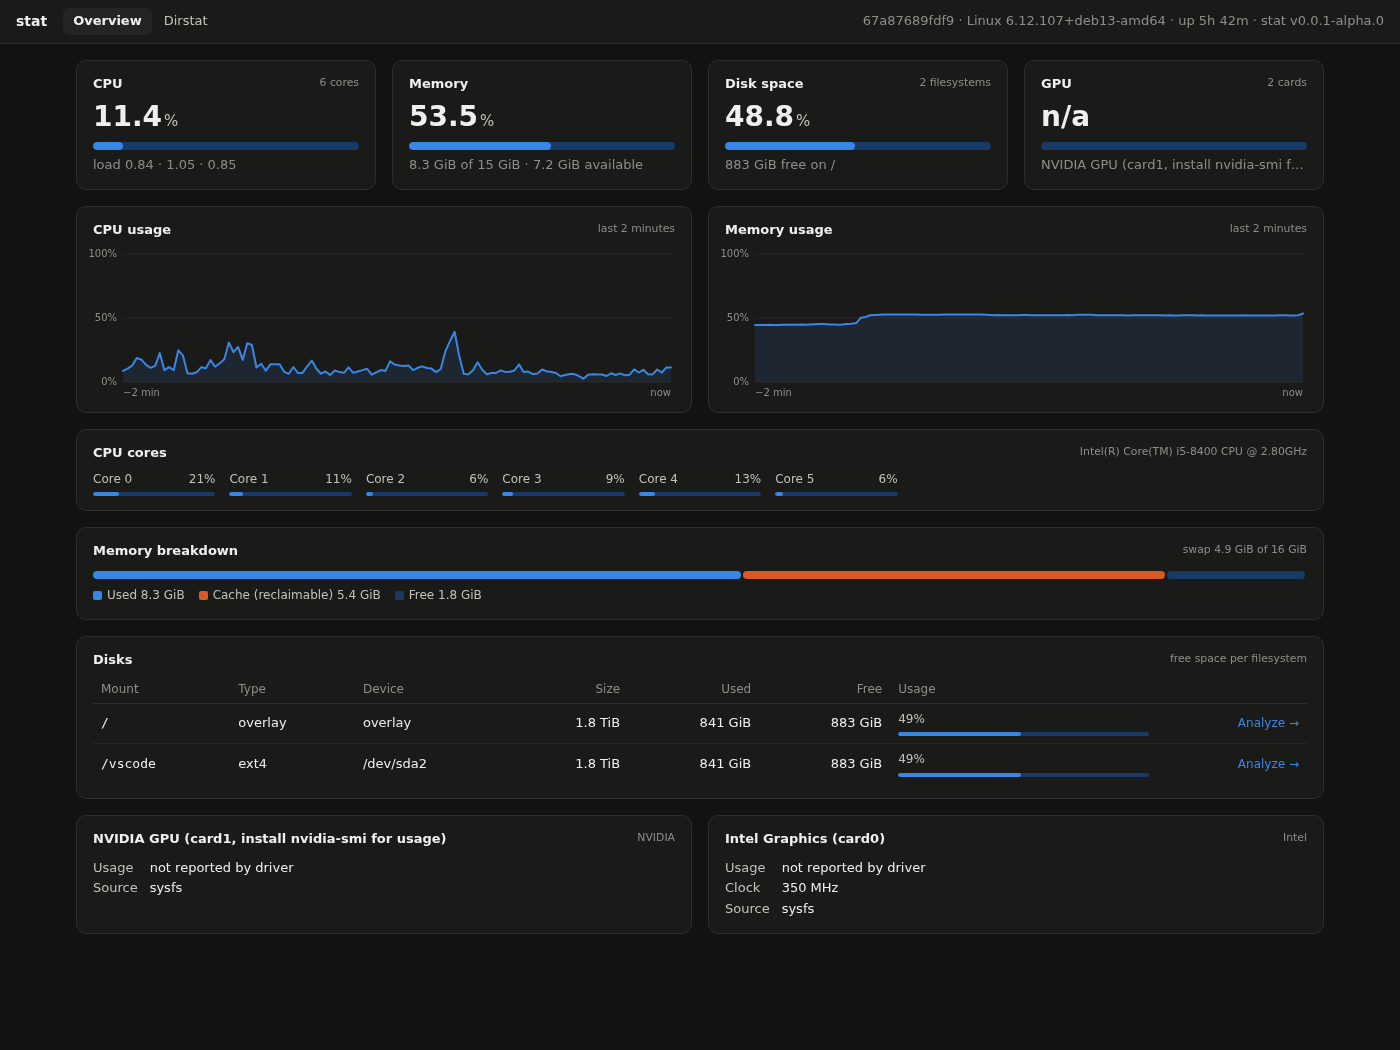
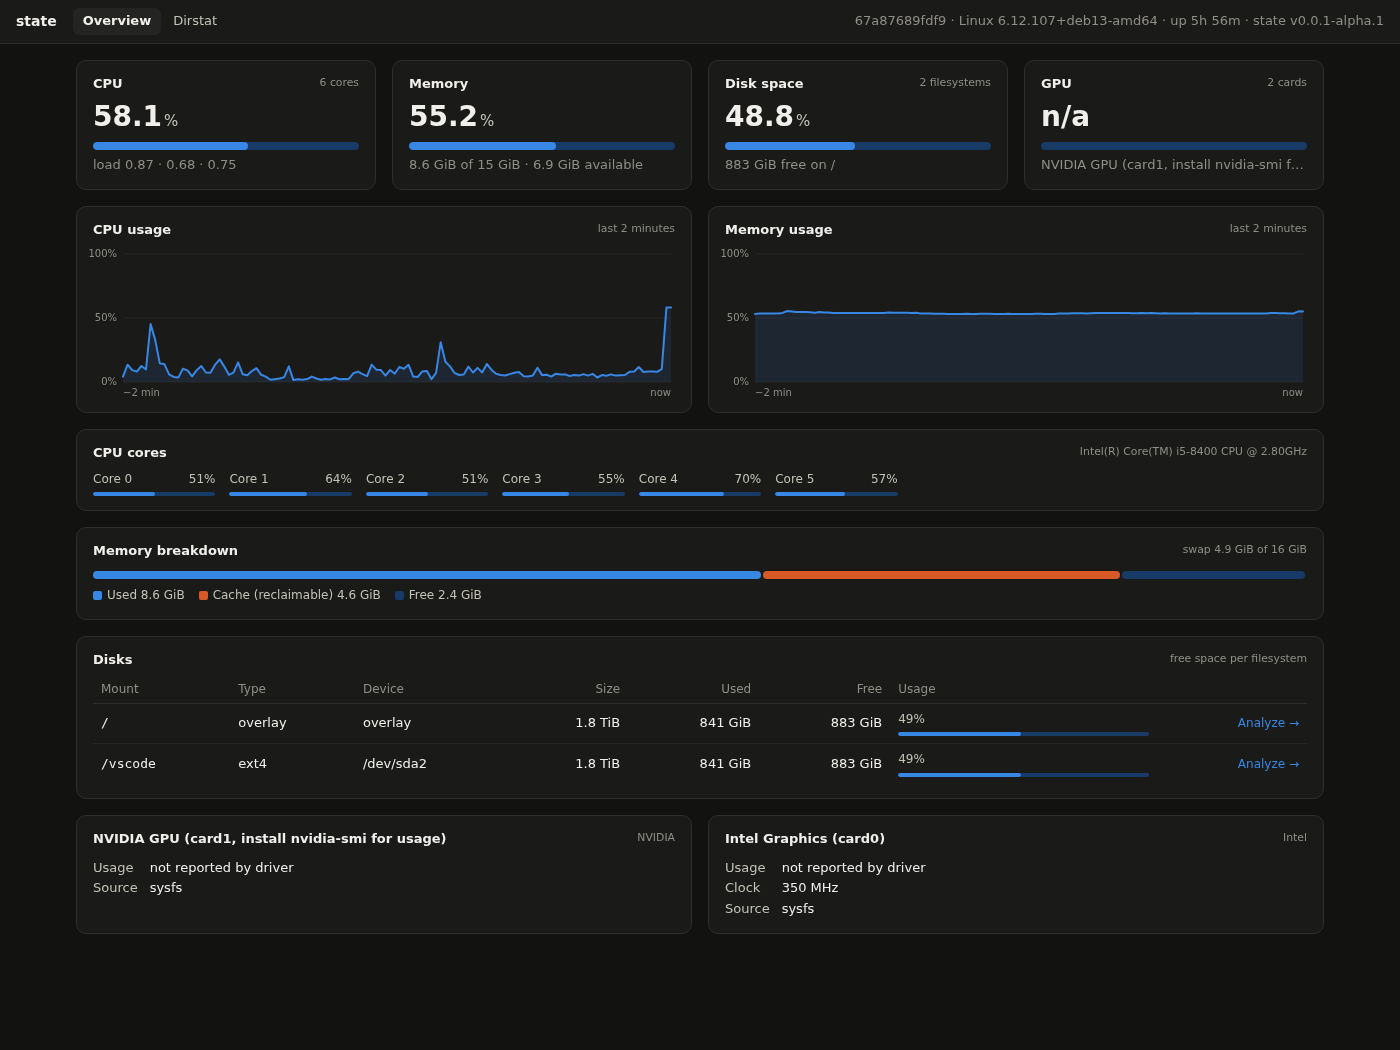
CI: smoke test on a random port; fix empty charts on first load

diff --git a/web/index.html b/web/index.html
@@ -319,9 +319,10 @@ function render(s) {
   /* History */
   for (const [k, v] of [['cpu', cpu.usage], ['mem', mp]]) {
     const last = hist[k][hist[k].length - 1];
-    if (last && last.t >= s.time) continue;
-    hist[k].push({ t: s.time, v });
-    if (hist[k].length > HISTORY) hist[k].shift();
+    if (!last || last.t < s.time) {
+      hist[k].push({ t: s.time, v });
+      if (hist[k].length > HISTORY) hist[k].shift();
+    }
     charts[k].data = hist[k];
     drawChart(charts[k]);
   }

diff --git a/README.md b/README.md
@@ -112,8 +112,8 @@ tests, and publishes the release. Tags with a suffix such as `-alpha.0` are mark
 as pre-releases.
 
 ```bash
-git tag v0.0.1-alpha.0
-git push origin v0.0.1-alpha.0
+git tag v0.0.1-alpha.1
+git push origin v0.0.1-alpha.1
 ```
 
 ## Build
